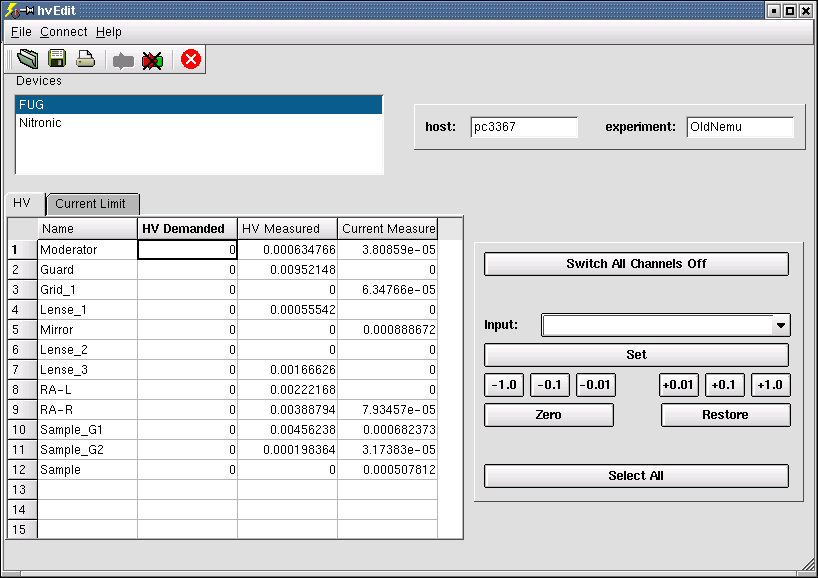
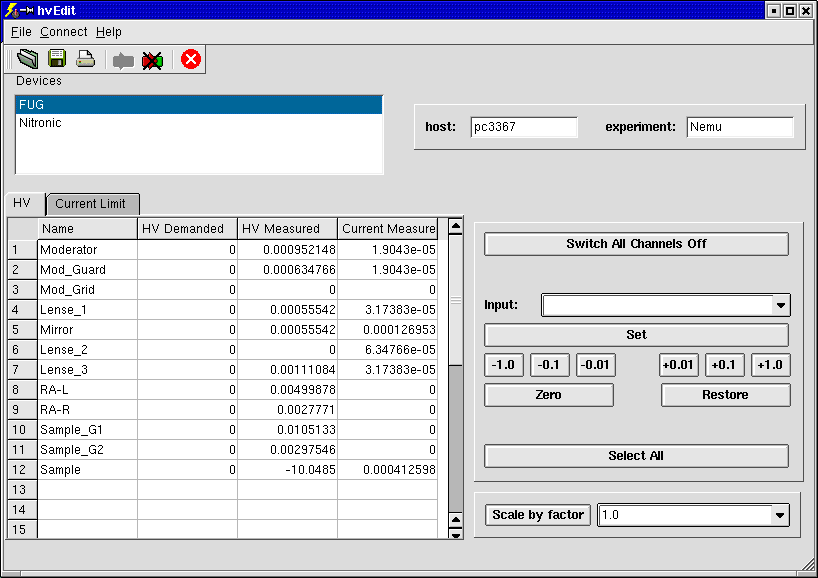
adopted help text to the new 'Scale by factor' feature. Also got rid of some minor html bugs.
SVN revision: 1973

diff --git a/gui/hvedit/qt/doc/hvEdit_usage.html b/gui/hvedit/qt/doc/hvEdit_usage.html
@@ -18,7 +18,7 @@
   <td valign="top" width="210"><a href="http://www.psi.ch/index.shtml"><img src="images/psi_logo_150.gif"
  alt="" width="150" height="55" border="0" align="middle"></a> &nbsp; <br>
   </td>
-  
+
   <td valign="top"><br>
   </td>
               
@@ -121,7 +121,7 @@ field together with the 'Set' button (to the right of the tabs). Analogous the
 'Current Limit' is editable. The editable columns allow multiselect of cells, i.e. 
 with mouse cursor whole regions can be selected, the 'shift' key together with the
 keyboard allow the same. By pressing 'ctrl' multiselection of disjointed cells can
-be selected. In case of multiselection the value has to be changed via the 
+be selected. In case of multiselection the value has to be changed via the
 'Input:/Set' facility.
 </p>
 
@@ -143,9 +143,9 @@ usefull HV emergency exit, so to speak.
 </p>
 
 <h3><a name="set">Set HV values</a></h3>
-<p>The 'Input' field and the 'Set' button are one unit. A value entered will 
+<p>The 'Input' field and the 'Set' button are one unit. A value entered will
 change the selected cells of 'HV Demand' or 'Current Limit', <em>only</em> if
-the 'Set' button is going to be pressed. This is a measure of precaution against 
+the 'Set' button is going to be pressed. This is a measure of precaution against
 nervous guys.
 </p>
 
@@ -167,23 +167,30 @@ The cell of the 'HV Demand' table is multi selective.
 <p>Select the whole 'HV Demand' column of active device.
 </p>
 
+<h3><a name="scale_by_factor">Scale by factor</a></h3>
+<p>Scales selected HV demand elements by the factor given in the text field. 
+</p>
+
+
 <h2><a name="tech_notes">Technicalities</a></h2>
 
-<h3>The file '.hvEdit'</h3>
+<h3>The file 'hveditrc'</h3>
 
-<p>The file '.hvEdit' is going to be read at the startup of 'hvEdit'. If '.hvEdit'
-does not exist, some hardcoded default values will be tried, wich might not always
-work properly. '.hvEdit' serves as an startup administration file in which path
-information etc. are stored. The syntax of the file is:
+<p>The file 'hveditrc' is going to be read at the startup of 'hvEdit'. It should
+be placed in '$HOME/.qt'. If 'hveditrc' does not exist, some hardcoded default values 
+will be tried, wich might not always work properly. 'hveditrc' serves as an startup
+administration file in which path information etc. are stored. The syntax of the file is:
 </p>
 
 <ul>
   <li> Lines starting with the character '#' are ignored (comments).</li>
+  <li> Group tags are '[General]' and '[ODB Keys]' and are used to group the
+       keywords in a logical order.</li>
   <li> Keyword <code>'DEFAULT_SETTING_DIR='</code>: The path where to find
-       the predefined HV setting '.hv'-files, 
+       the predefined HV setting '.hv'-files,
 	   e.g. <code>DEFAULT_SETTING_DIR=~/online/hv_settings</code></li>
   <li> Keyword <code>'DEFAULT_DOC_DIR='</code>: Documentation Path.</li>
-  <li> Keyword <code>'MIDAS_KEY_HV_ROOT='</code>: ODB Root key for the hv devices, 
+  <li> Keyword <code>'MIDAS_KEY_HV_ROOT='</code>: ODB Root key for the hv devices,
        e.g. <code>MIDAS_KEY_HV_ROOT=/Equipment/HV</code></li>
   <li> Keyword <code>'MIDAS_KEY_HV_NAMES='</code>: ODB Key of the HV names.</li>
   <li> Keyword <code>'MIDAS_KEY_HV_DEMAND='</code>: ODB Key of the HV demand list.</li>
@@ -192,26 +199,30 @@ information etc. are stored. The syntax of the file is:
   <li> Keyword <code>'MIDAS_KEY_HV_CURRENT_LIMIT='</code>: ODB Key of the current limit list.</li>
 </ul>
 
-<p>An example '.hvEdit' file is:
+<p>An example 'hveditrc' file is:
 </p>
 <pre>
+# hveditrc
 # Adminstration file for hvEdit
 #
-# Andreas Suter, 2002/11/22
+# this file should be placed in $HOME/.qt,
 #
-# default hv setting lists *.hv
-DEFAULT_SETTING_DIR=~/online/hv_settings
-DEFAULT_DOC_DIR=~/doc/midas/util/hvEdit
+# Andreas Suter, 2003/10/27
 #
-# default ODB keys
+
+[General]
+DEFAULT_SETTING_DIR=.
+DEFAULT_DOC_DIR=gui/hvedit/qt/doc
+
+[ODB Keys]
 MIDAS_KEY_HV_ROOT=/Equipment/HV
 MIDAS_KEY_HV_NAMES=Settings/Names
 MIDAS_KEY_HV_DEMAND=Variables/Demand
 MIDAS_KEY_HV_MEASURED=Variables/Measured
 MIDAS_KEY_HV_CURRENT=Variables/Current
 MIDAS_KEY_HV_CURRENT_LIMIT=Settings/Current Limit
-#
-# end
+
+# end of hveditrc
 </pre>
 
 <h3>The 'hv'-file structure</h3>
@@ -225,12 +236,12 @@ files do have the following file structure:</p>
        name. The syntax of this line is 'D >device_name<', e.g. 'D >fug<' for the
 	   device 'fug'.</li>
   <li> A line stating with the character 'S' indicates a hv channel. This line
-       is coded as follows:<br> 
+       is coded as follows:<br>
 	   "S ch_no $'hv'kV %'current_limit'mA &'name'"
 	   <ul>
 	     <li> 'ch_no' is the hv channel of the device <\li>
 		 <li> $'hv'kV is the demanded HV value, e.g. <code>$10.0kV</code>.</li>
-		 <li> %'current_limit'mA is the current limit value, e.g. 
+		 <li> %'current_limit'mA is the current limit value, e.g.
 		      <code>%0.05mA</code>.</li>
 		 <li> &'name' is the name of this channel, e.g. <code>&Moderator</code>.</li>
 	   </ul>
@@ -250,7 +261,7 @@ files do have the following file structure:</p>
 !
 !	Contains channel encoding.
 !
-!	------------->   D O  N O T change the format !!!!!!!!! <----------
+!	------------->   D O  N O T change the format !!!!!!!!!
 !
 !---------------------------------------------------------------------
 !
@@ -261,7 +272,7 @@ files do have the following file structure:</p>
 !	output current, which is transformed by a 500 Ohm resistance
 !	(two 1kOhm in parallel) into a voltage between 0 and 10 V.
 !
-!	
+!
 !	  Output 	FP-module Channel	Which Supply
 !	controller	     address
 !	=================================================================
@@ -309,7 +320,8 @@ files do have the following file structure:</p>
 ! Refer to Field-Point FP-1000/1001 Programmer Reference Manual.
 ! ! is a comment line
 !
-D >fug<
+D >fug&lt
+
 S 01 $10.00kV %0.020mA &Moderator
 S 02 $8.00kV %0.003mA &Guard
 S 03 $6.93kV %0.003mA &Grid_1
@@ -326,7 +338,7 @@ S 12 $0.00kV %0.001mA &Sample
 </pre>
 
 <hr width="100%" size="2">
-<div align="right">&nbsp;       
+<div align="right">&nbsp;
 <table cellpadding="0" cellspacing="0" border="0" width="250">
   <tbody>
     <tr>
@@ -334,7 +346,7 @@ S 12 $0.00kV %0.001mA &Sample
     <td valign="top" width="95"><a href="hvEdit_intro.html">previous</a><br></td>
     <td valign="top" width="125"><a href="hvEdit_Help.html">table of contents</a><br></td>
     </tr>                           
-  </tbody>       
+  </tbody>
 </table>
 </div>
 
@@ -351,6 +363,7 @@ Here the map table for the image 'images/hvEdit_main.png' is placed
   <area coords="487,405,610,423" href="hvEdit_usage.html#zero">
   <area coords="664,405,783,423" href="hvEdit_usage.html#restore">
   <area coords="487,472,783,483" href="hvEdit_usage.html#select_all">
+  <area coords="487,501,789,521" href="hvEdit_usage.html#scale_by_factor">
 </map>
 <!--
 Here the map table for the image 'images/hvEdit_connect.png' is placed 
